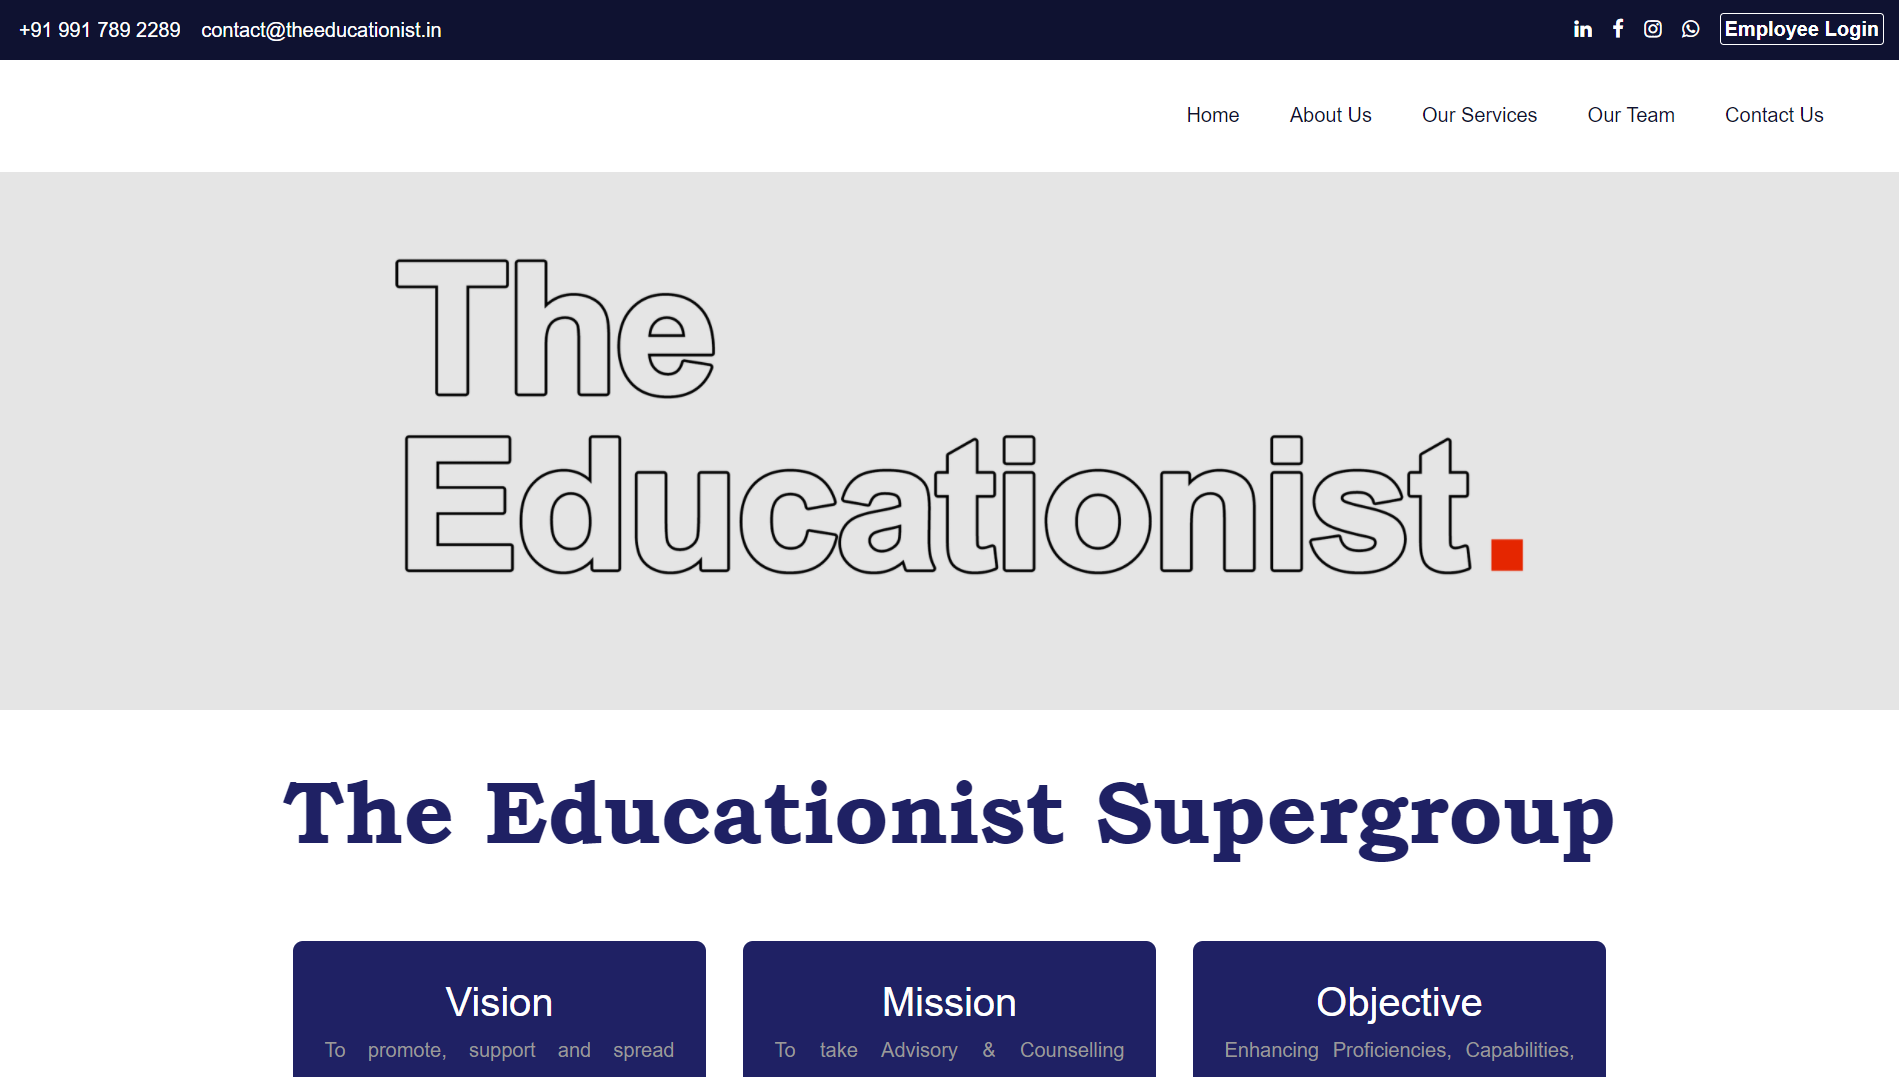
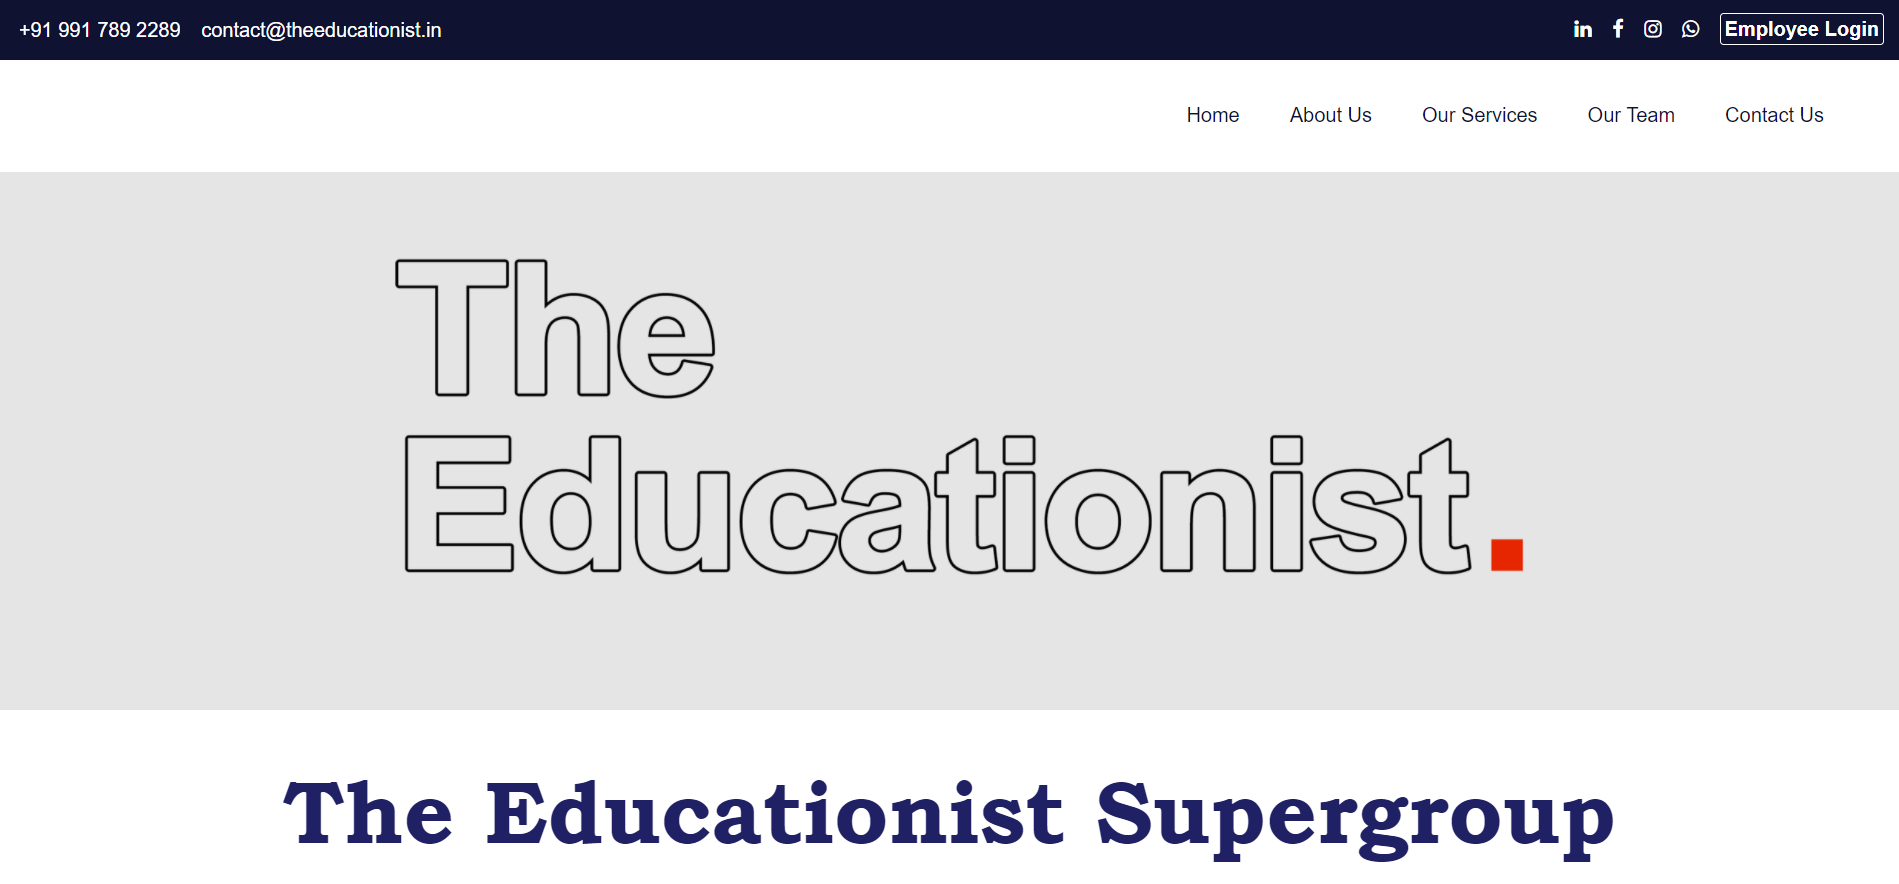
content

Changed region(s): [[0.0, 0.0, 1.0, 0.8247], [0.1243, 0.8552, 0.8699, 1.0]]

diff --git a/index.html b/index.html
@@ -196,20 +196,10 @@ Hobbies include Reading Books, Writing Prose, Watching Movies and Candid Photogr
         <div class="section">
           <div class="container cont1">
             <div class="row home-feature-row reverse-on-sm">
-              <div class="col col-12 col-md-3 col-sm-12">
-                <div class="feature-img-wrapper">
-                    <img src="assets/img/swayam.png" sizes="(max-width: 479px) 90vw, (max-width: 767px) 250px, (max-width: 991px) 45vw, 37vw" data-w-id="10ba5662-516e-a67b-8c74-318d3025f65d" style="opacity: 1;" alt="" class="feature-img">
-    
-                  <div style="margin-left: 45%; margin-top: 2%;">
-                  <a class="linkedin" href="https://www.linkedin.com/company/theeducationistsutra/" style=" margin-right:10px;" target="_blank"><i class="fa fa-linkedin fa-2x"></i></a>
-                </div>
-    
-                </div>
-              </div>
               <div class="col col-12 col-md-8 col-sm-12">
                 <div data-w-id="10ba5662-516e-a67b-8c74-318d3025f64f" style="opacity: 1; " class="feature-block small right">
-                  <h4 style="font-weight:500; font-size:20px;">Swayam: Self-Management Program </h4>
-                  <div class="feature-block-indent small"><p style="font-size: 18px;"> The Art &amp; Science of Success and Happiness and the First Step Towards Being A Professional.</p>
+                  <h4 style="font-weight:500; font-size:20px;">Swayam: Self-Management Program <br> The Art &amp; Science of Success and Happiness and the First Step Towards Being A Professional.</h4>
+                  <div class="feature-block-indent small"><p style="font-size: 18px;"> </p>
                     <ul style="font-size: 16px;" class="area">
                         <li>Based on the Principles of 4-Quadrants of Life</li>
                         <li>A must for Schools, Colleges, Universities, Institutions, Corporate Houses and Organizations</li>
@@ -218,6 +208,17 @@ Hobbies include Reading Books, Writing Prose, Watching Movies and Candid Photogr
                   </div>
                 </div>
               </div>
+              <div class="col col-12 col-md-3 col-sm-12">
+                <div class="feature-img-wrapper">
+                    <img src="assets/img/swayam.png" sizes="(max-width: 479px) 90vw, (max-width: 767px) 250px, (max-width: 991px) 45vw, 37vw" data-w-id="10ba5662-516e-a67b-8c74-318d3025f65d" style="opacity: 1;" alt="" class="feature-img">
+    
+                  <div style="margin-left: 45%; margin-top: 2%;">
+                 <!-- <a class="linkedin" href="https://www.linkedin.com/company/theeducationistsutra/" style=" margin-right:10px;" target="_blank"><i class="fa fa-linkedin fa-2x"></i></a>-->
+                </div>
+    
+                </div>
+              </div>
+       
             </div>
           </div>
         </div>
@@ -228,7 +229,7 @@ Hobbies include Reading Books, Writing Prose, Watching Movies and Candid Photogr
             <div class="row home-feature-row">
               <div class="col col-12 col-md-8 col-sm-12">
                 <div data-w-id="4f673a92-cdaa-60de-057a-04ba2d2db009" style="opacity:1" class="feature-block small">
-                  <h4 class="feature-heading" style="font-weight:500; font-size:20px;">The Equilibrium – Executive Coaching & Advisory Services   </h4>
+                  <h4 class="feature-heading" style="font-weight:500; font-size:20px;">The Equilibrium <br> Executive Coaching & Advisory Services   </h4>
                   <div class="feature-block-indent small">
                     <ul style="font-size: 16px;" class="area">
                         <li>Executive Coaching & Advisory Services are about balancing the different aspects of personal, professional, social and spiritual life by seeing the blind spots, by providing strategic planning, offering advisory towards being responsible & accountable. </li><br>
@@ -241,7 +242,7 @@ Hobbies include Reading Books, Writing Prose, Watching Movies and Candid Photogr
               <div class="col col-12 col-md-3 col-sm-12">
                 <div class="feature-img-wrapper"><img src="assets/img/the-equilibrium.png"  sizes="(max-width: 479px) 90vw, (max-width: 767px) 360px, (max-width: 991px) 37vw, 29vw" data-w-id="4f673a92-cdaa-60de-057a-04ba2d2db017" style="opacity:1" alt="" class="feature-img" />
                   <div style="margin-left: 45%; margin-top: 2%;" >
-                  <a class="linkedin" href="https://www.linkedin.com/company/theequilibriumecas" style="margin-right:10px;" target="_blank"><i class="fa fa-linkedin fa-2x"></i></a>
+                 <!-- <a class="linkedin" href="https://www.linkedin.com/company/theequilibriumecas" style="margin-right:10px;" target="_blank"><i class="fa fa-linkedin fa-2x"></i></a>-->
               </div>
                 </div>
               </div>
@@ -256,7 +257,7 @@ Hobbies include Reading Books, Writing Prose, Watching Movies and Candid Photogr
           <div class="container">
             <div class="row home-feature-row reverse-on-sm">
               <div class="col col-12 col-md-3 col-sm-12">
-                <div class="feature-img-wrapper"><img src="assets/img/pixels.png"  sizes="(max-width: 479px) 90vw, (max-width: 767px) 360px, (max-width: 991px) 37vw, 29vw" data-w-id="f1d20152-95d0-2214-7463-d4e00c67498b" style="opacity:1" alt="" class="feature-img" />
+                <div class="feature-img-wrapper"><img src="assets/img/pixel1.jpeg"  sizes="(max-width: 479px) 90vw, (max-width: 767px) 360px, (max-width: 991px) 37vw, 29vw" data-w-id="f1d20152-95d0-2214-7463-d4e00c67498b" style="opacity:1" alt="" class="feature-img" />
                  <div  style="margin-left: 45%; margin-top: 2%;"> 
       
                  </div>
@@ -362,37 +363,58 @@ Hobbies include Reading Books, Writing Prose, Watching Movies and Candid Photogr
 <!-- Masonry Element --></div>
 
 <p ><a href="https://www.facebook.com/pixelsbyranavikramsingh/" class="button-fb">Check More at Facebook</a></p>
-<div class="col-md-12 col-sm-6 col-xs-12" id="my_endeavours">
-  <div class="resume-box">
-  <div class="timeline"> 
-      <div class="timeline-event te-primary"> <span class="event-name "><a class="vert" href="http://www.theeducationist.in/">www.theeducationist.in</a></span>
-      <br> <a href="http://www.theeducationist.in/"><img class="img" src="assets/img/theeducationist.png"> </a>
-      </div>
-      <div class="timeline-event te-primary"> <span class="event-name "><a class="vert" href="http://www.tesventures.in/">www.tesventures.in</a></span>  
-      <br><a href="http://www.tesventures.in/" ><img class="img" src="assets/img/tesventure.png"> </a>
-      </div>
 
 </div>
-</div>
-</div>
-<p class="copyright">Copyright © 2018. Rana Vikram Singh All Rights Reserved. Developed By <a href="https://www.webnodites.com/" class="web">Webnodites</a></p>
-</div>
-<section>
-<div class="col-md-12 col-sm-6 col-xs-12" id="my_professional_summary">
-  <!-- Contact Box -->
-  
-  <div class="contact-box bg-secondary dark animated" data-animation="flipInY">
-  <h1>Feel free to <strong>contact me</strong>!</h1>
-  <!-- Contact List -->
-  
-  <ul class="list-unstyled list-unstyled-icons">
-    <li>National Capital Region India</li>
-    <li><a href="#">rvs@ranavikramsingh.com</a></li>
-    <li>+91 9997392277</li>
-  </ul>
-  <a class="btn btn-primary" data-target="messenger" href="#"><span>Use Contact Form</span></a></div>
-  </section>
+
+
 </section>
+
+<section class="section padding-v-60 about" style="background-color: #F8F8F8;"><!-- Content -->
+  <div class="container container-wide">
+  
+  <div class="row padding-lg" >
+
+    <div class="col-md-12 col-sm-6 col-xs-12" id="my_endeavours" style="background-color: #F8F8F8;">
+      <div class="resume-box" >
+      <div class="timeline"> 
+          <div class="timeline-event te-primary"> <span class="event-name "><a class="vert" href="http://www.theeducationist.in/">www.theeducationist.in</a></span>
+          <br> <a href="http://www.theeducationist.in/"><img class="img" src="assets/img/theeducationist.png"> </a>
+          </div>
+          <div class="timeline-event te-primary"> <span class="event-name "><a class="vert" href="http://www.tesventures.in/">www.tesventures.in</a></span>  
+          <br><a href="http://www.tesventures.in/" ><img class="img" src="assets/img/tesventure.png"> </a>
+          </div>
+    
+    </div>
+    </div>
+    </div>
+  
+  </div>
+  </div>
+</section>
+
+<section class="section bg-primary dark padding-v-60"  style="padding-bottom: -50%;" ><!-- Content -->
+  <section>
+  
+    <div class="col-md-12 col-sm-6 col-xs-12" id="my_professional_summary">
+      <!-- Contact Box -->
+      
+      <div class="contact-box bg-secondary dark animated" data-animation="flipInY">
+      <h1>Feel free to <strong>contact me</strong>!</h1>
+      <!-- Contact List -->
+      
+      <ul class="list-unstyled list-unstyled-icons">
+        <li>National Capital Region India</li>
+        <li><a href="#">rvs@ranavikramsingh.com</a></li>
+        <li>+91 9997392277</li>
+      </ul>
+      <a class="btn btn-primary" data-target="messenger" href="#"><span>Use Contact Form</span></a></div>
+      </section>
+  
+  <div class="container container-wide">
+  <p class="copyright">Copyright © 2018. Rana Vikram Singh All Rights Reserved. Developed By <a href="https://www.webnodites.com/" class="web">Webnodites</a></p>
+  </div> 
+
+  </section>
 
 <!-- Section - Contact / End --><!-- Content / End --><!-- Ajax Wrapper & Loader -->
 

diff --git a/assets/css/styles.css b/assets/css/styles.css
@@ -31,7 +31,7 @@
     color:#CAA669;
 }
 .prdts{
-    margin-left:45%;
+    margin-left:30%;
 }
 section .pixelsby{
     background-color: #CAA669;
@@ -45,7 +45,7 @@ section .pixelsby{
 }
 
  .vert:hover{
-    color:black;
+    color:#CAA669;
 }
 @media (max-width: 767px) {
 
